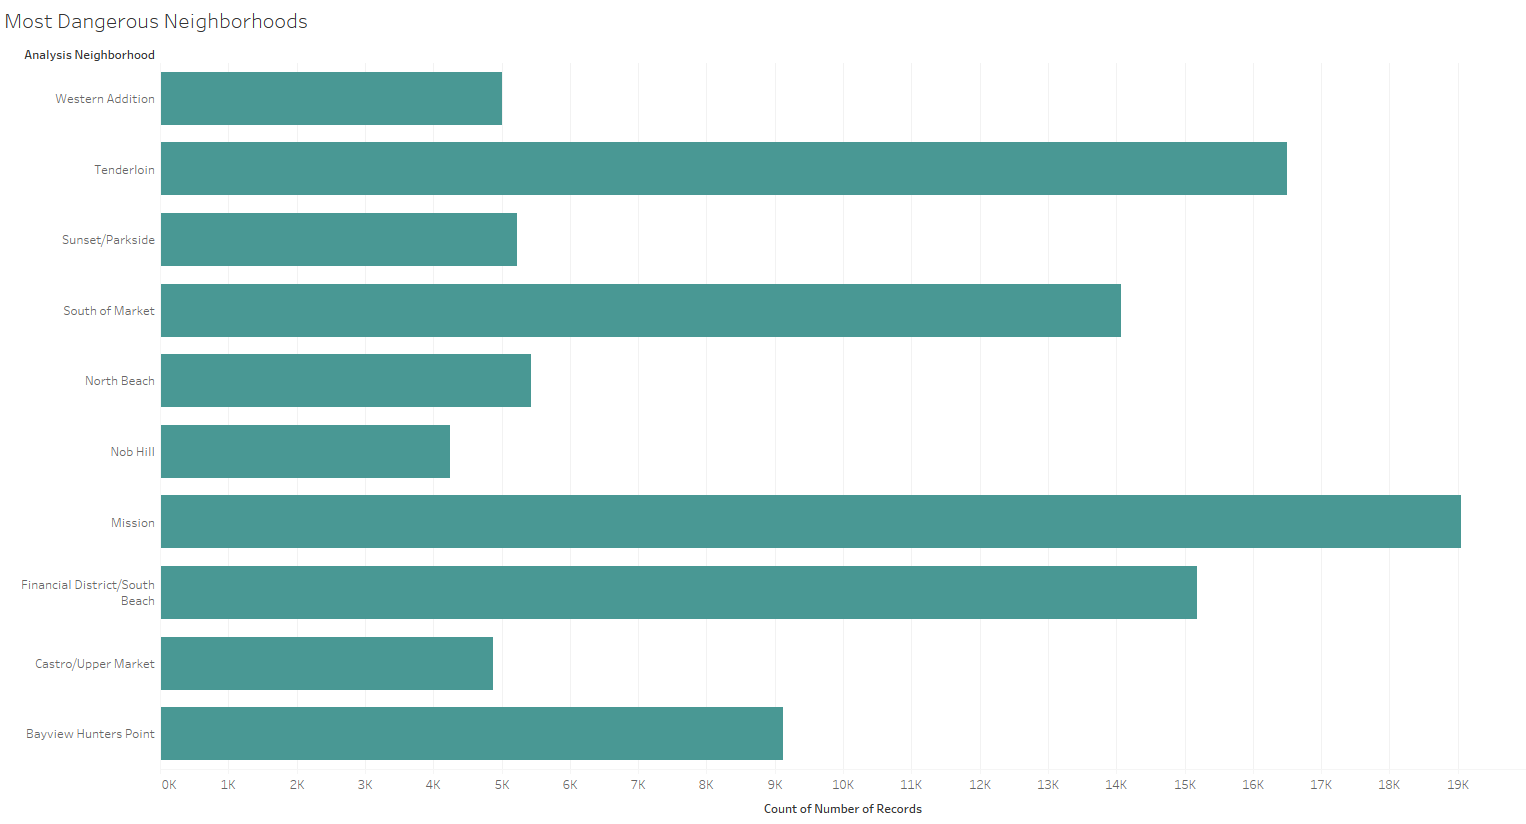
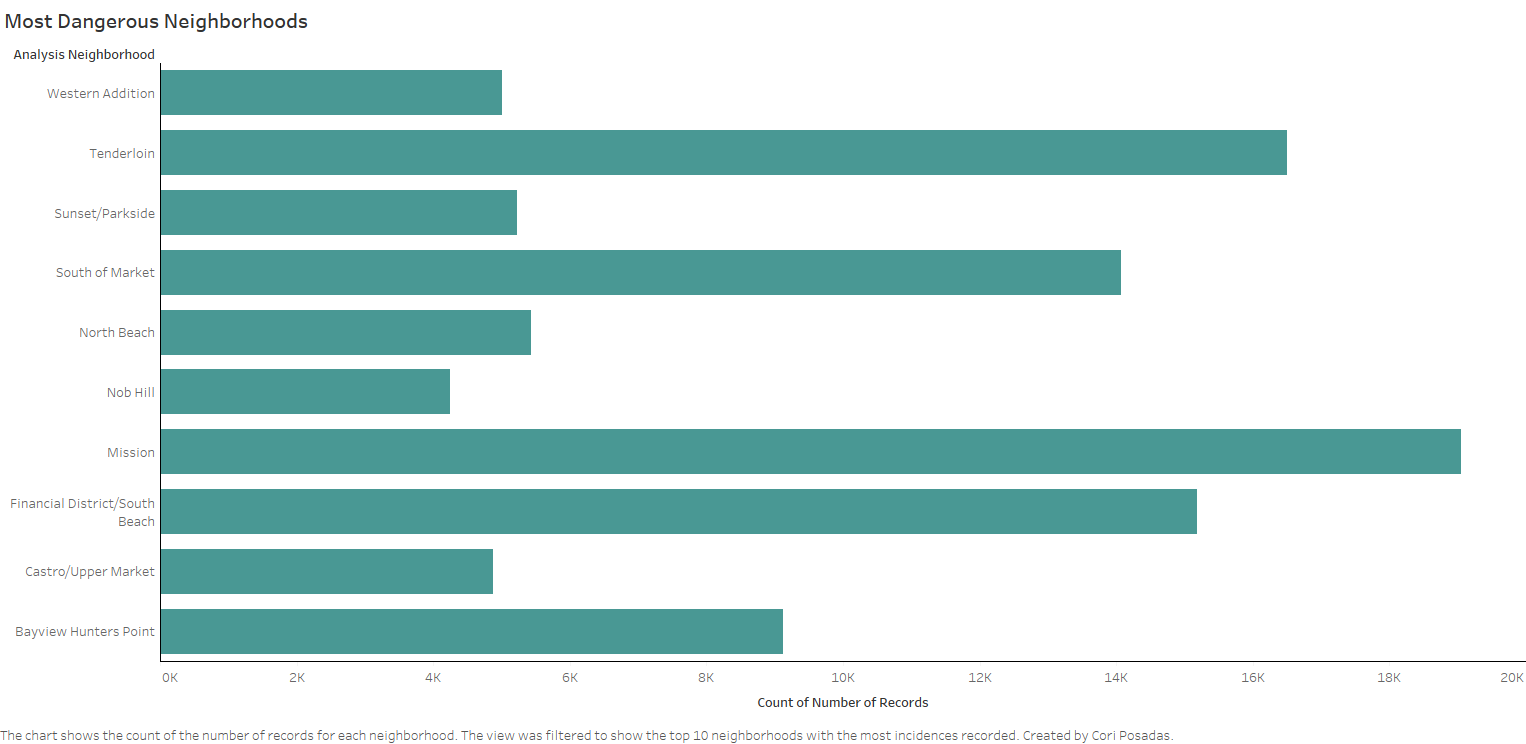
Complete

diff --git a/index.html b/index.html
@@ -23,12 +23,18 @@
     }
     .line {
      fill: none;
-     stroke: steelblue;
-     stroke-width: 2px;
+     stroke: none;
     }
-
     .area {
      fill: lightsteelblue;
+    }
+    .tick line {
+      stroke-width: 0;
+    }
+    .caption {
+      width: 960px;
+      font-size: 12px;
+      margin-left: 20px;
     }
   </style>
 
@@ -98,11 +104,12 @@
 <section class="section">
   <div class="container content">
     <h2>D3 Encodings</h2>
-    <h3> Top 10 Incidences</h3>
+    <br>
+    <h4>Top 10 Incidences</h4>
       <div id="plot1">
         <script>
           // set the dimensions and margins of the graph
-          var margin = {top: 20, right: 20, bottom: 30, left: 150},
+          var margin = {top: 50, right: 20, bottom: 30, left: 75},
               width = 960 - margin.left - margin.right,
               height = 500 - margin.top - margin.bottom;
 
@@ -146,6 +153,22 @@
                 .attr("y", function(d) { return y(d.Count); })
                 .attr("height", function(d) { return height - y(d.Count); });
 
+            // add x axis label
+            svg.append("text")
+              .attr("x", width / 2 )
+              .attr("y",  height + margin.top - 490)
+              .style("text-anchor", "middle")
+              .text("Incident Category");
+
+            // add y axis label
+            svg.append("text")
+              .attr("transform", "rotate(-90)")
+              .attr("y", 0 - margin.left)
+              .attr("x",0 - (height / 2))
+              .attr("dy", "2em")
+              .style("text-anchor", "middle")
+              .text("Count of Number of Records");
+
             // add the x Axis
             svg.append("g")
                 .attr("transform", "translate(0," + height + ")")
@@ -153,24 +176,29 @@
 
             // add the y Axis
             svg.append("g")
-                .call(d3.axisLeft(y));
+                .call(d3.axisLeft(y).tickFormat(d3.format(".2s")));
 
           });
         </script>
+      </div>
+      <div class="caption">
+        <p>
+          The chart shows the count of number of records for each incident category. The view was filtered to show the top 10 incident categories with the most incidences recorded. Here we can see that larceny theft is the most reported incident by a significant amount. Created by Cori Posadas.
+        </p>
       </div>
     </div>
   </section>
 
   <section class="section">
     <div class="container content">
-      <h3>Most Dangerous Neighborhoods</h3>
+      <h4>Most Dangerous Neighborhoods</h4>
       <div id="plot2">
         <script>
           d3.csv("Neighborhoods.csv").then(function(data) {
             console.log(data);
 
           // set the dimensions and margins of the graph
-          var margin = {top: 20, right: 20, bottom: 30, left: 150},
+          var margin = {top: 20, right: 20, bottom: 50, left: 145},
             width = 960 - margin.left - margin.right,
             height = 500 - margin.top - margin.bottom;
 
@@ -210,10 +238,25 @@
               .attr("y", function(d) { return y(d.Neighborhood); })
               .attr("height", y.bandwidth());
 
+          // add x axis label
+          svg.append("text")
+            .attr("x", width / 2 )
+            .attr("y",  height + margin.top + 20)
+            .style("text-anchor", "middle")
+            .text("Count of Number of Records");
+
+            // add y axis label
+            svg.append("text")
+              .attr("x", 0 + margin.left - 200)
+              .attr("y",0 + (height/height - 10))
+              //.attr("dy", "2em")
+              .style("text-anchor", "middle")
+              .text("Analysis Neighborhood");
+
           // add the x Axis
           svg.append("g")
               .attr("transform", "translate(0," + height + ")")
-              .call(d3.axisBottom(x));
+              .call(d3.axisBottom(x).tickFormat(d3.format(".2s")));
 
           // add the y Axis
           svg.append("g")
@@ -222,7 +265,11 @@
           });
         </script>
       </div>
-
+      <div class="caption">
+        <p>
+          The chart shows the count of the number of records for each neighborhood. The view was filtered to show the top 10 neighborhoods with the most incidences recorded. Created by Cori Posadas.
+        </p>
+      </div>
   </div>
 </section>
 
@@ -235,7 +282,7 @@
             console.log(data);
 
         // set the dimensions and margins of the graph
-        var margin = {top: 20, right: 20, bottom: 30, left: 50},
+        var margin = {top: 20, right: 20, bottom: 50, left: 50},
             width = 960 - margin.left - margin.right,
             height = 500 - margin.top - margin.bottom;
 
@@ -286,6 +333,22 @@
               .attr("class", "line")
               .attr("d", valueline);
 
+          // add x axis label
+          svg.append("text")
+            .attr("x", width / 2 )
+            .attr("y",  height + margin.top + 15)
+            .style("text-anchor", "middle")
+            .text("Hour of Incident Time");
+
+          // add y axis label
+          svg.append("text")
+            .attr("transform", "rotate(-90)")
+            .attr("y", 0 - margin.left)
+            .attr("x",0 - (height / 2))
+            .attr("dy", "1em")
+            .style("text-anchor", "middle")
+            .text("Count of Number of Records");
+
           // add the X Axis
           svg.append("g")
               .attr("transform", "translate(0," + height + ")")
@@ -293,12 +356,16 @@
 
           // add the Y Axis
           svg.append("g")
-              .call(d3.axisLeft(y));
+              .call(d3.axisLeft(y).tickFormat(d3.format(".1s")));
 
         });
       </script>
     </div>
-
+    <div class="caption">
+      <p>
+        The plot of the count of number of records for each hour from midnight (hour 0) to 11 PM (hour 23). Here we can see that there is a lull in incidences reported from about 3 AM to 6 AM. Created by Cori Posadas.
+      </p>
+    </div>
 </div>
 </section>
 
@@ -310,35 +377,28 @@
       </svg> -->
 
       <h3>Prototypes</h3>
+      <br>
 
       <p>
-        <img src="./images/Top10.png" alt="Top10">
+        <img src="./images/Top10.png" alt="Top10" width="960" height="500">
       </p>
 
       <p>
-        <img src="./images/Neighborhoods.png" alt="Neighborhoods">
+        <img src="./images/Neighborhoods.png" alt="Neighborhoods" width="960" height="500">
       </p>
 
       <p>
-        <img src="./images/Times.png" alt="Times">
-      </p>
-
-      <h3>Interpretation</h3>
-
-      <p>
-        Insert interpretations
-      </p>
-
-      <h3>Discussion</h3>
-
-      <p>
-        If appropriate, provide a brief discussion of the primary goal and findings of the visualization, any challenges encountered creating the visualization, and any other context as required by the assignment.
+        <img src="./images/Times.png" alt="Times" width="960" height="500">
       </p>
 
       <h3>Credit</h3>
 
       <p>
-        If appropriate, provide credit for the dataset, any code used, and design inspirations here. Unsufficient discussion here is a violation of the <a href="/syllabus.html#cheating-policy">academic honesty policy</a> and may result in an F grade for the assignment or the <em>entire</em> course.
+        <span>The "Top 10 Incidences" bar chart is inspired by d3noob's <a href="https://bl.ocks.org/d3noob/bdf28027e0ce70bd132edc64f1dd7ea4">Simple bar graph in v4</a></span>
+        <br>
+        <span>The "Most Dangerous Neighborhoods" bar chart is inspired by Aravind Cheekkallur's <a href="https://bl.ocks.org/caravinden/eb0e5a2b38c8815919290fa838c6b63b">Horizontal Bar chart d3.v4</a></span>
+        <br>
+        <span>The "Dangerous Times" area chart is inspired by d3noob's <a href="https://bl.ocks.org/d3noob/119a138ef9bd1d8f0a8d57ea72355252">Simple graph with filled area in v4</a></span>
       </p>
     </div>
   </section>
@@ -375,7 +435,6 @@
             </td>
 
             <td>
-              If appropriate, provide a brief justification for this level of functionality. Clearly state if this level was not implemented.
             </td>
           </tr>
 
@@ -390,14 +449,13 @@
             </td>
 
             <td>
-              If appropriate, provide a brief justification for this level of functionality. Clearly state if this level was not implemented.
             </td>
           </tr>
 
           <!-- b level functionality -->
           <tr>
             <td class="has-text-centered">
-              <i class="far fa-fw fa-times-circle has-text-danger"></i>
+              <i class="far fa-fw fa-times-circle has-text-success"></i>
             </td>
 
             <td class="has-text-centered">
@@ -405,7 +463,6 @@
             </td>
 
             <td>
-              If appropriate, provide a brief justification for this level of functionality. Clearly state if this level was not implemented.
             </td>
           </tr>
 
@@ -413,7 +470,7 @@
           <!-- a level functionality -->
           <tr>
             <td class="has-text-centered">
-              <i class="far fa-fw fa-times-circle has-text-danger"></i>
+              <i class="far fa-fw fa-times-circle has-text-success"></i>
             </td>
 
             <td class="has-text-centered">
@@ -421,15 +478,12 @@
             </td>
 
             <td>
-              If appropriate, provide a brief justification for this level of functionality. Clearly state if this level was not implemented.
+              Created three different visualizations with two different encodings. All in color with titles, labels, and captions. Implemented all three in D3 to the best of my abilities.
             </td>
           </tr>
         <tbody>
       </table>
 
-      <p>
-        Any additional context you want to provide regarding functionality and grading can be included here. This may include any challenges or bugs you ran into that prevented you from implementing additional functionality.
-      </p>
     </div>
   </section>
 
@@ -445,24 +499,26 @@
         <div class="media-left">
           <p class="image is-128x128">
             <!-- todo: replace with your profile image -->
-            <img src="https://bulma.io/images/placeholders/128x128.png">
+            <img src="profile.jpg" alt="Profile Image">
           </p>
         </div>
 
         <div class="media-content">
             <p>
               <!-- todo: replace with your information -->
-              <strong>Full Name</strong>
+              <strong>Cori Posadas</strong>
               <br/>
-              This is a good place to place a brief biography describing your interests and skills, a professional profile photo, and/or links to your Github, Linkedin, and other <em>professional</em> social media accounts.
+              Senior computer science major at University of San Franciscio.
+              <br>
+              Interests include front-end web developement and spending time outdoors!
               <br/>
               <!-- find brand icons at: https://fontawesome.com/icons?d=gallery&s=brands&m=free -->
-              <a href="https://github.com/">
+              <a href="https://github.com/coriposadas">
                 <span class="fab fa-github"></span>
                 <span>Github</span>
               </a>
               &bullet;
-              <a href="https://www.linkedin.com/">
+              <a href="https://www.linkedin.com/in/corianna-posadas-a4a48915b/">
                 <span class="fab fa-linkedin"></span>
                 <span>LinkedIn</span>
               </a>
